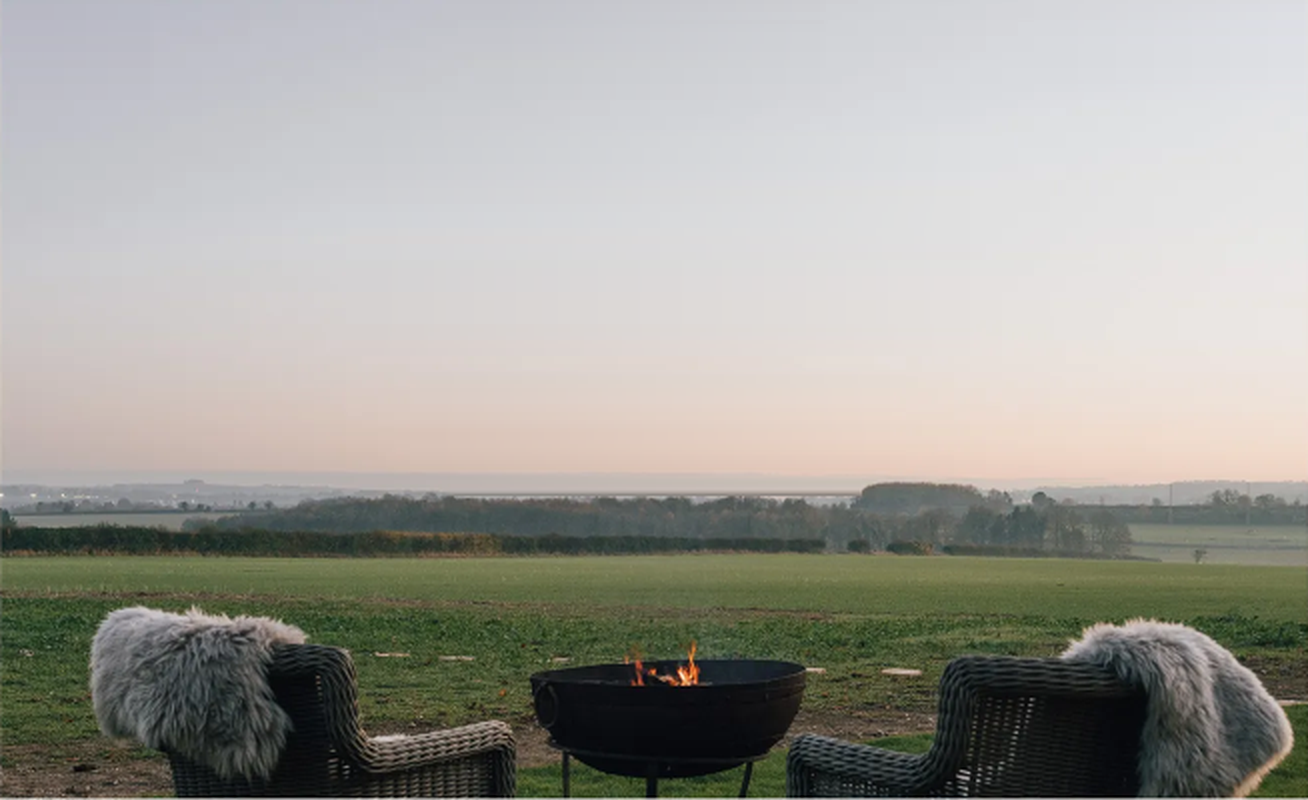
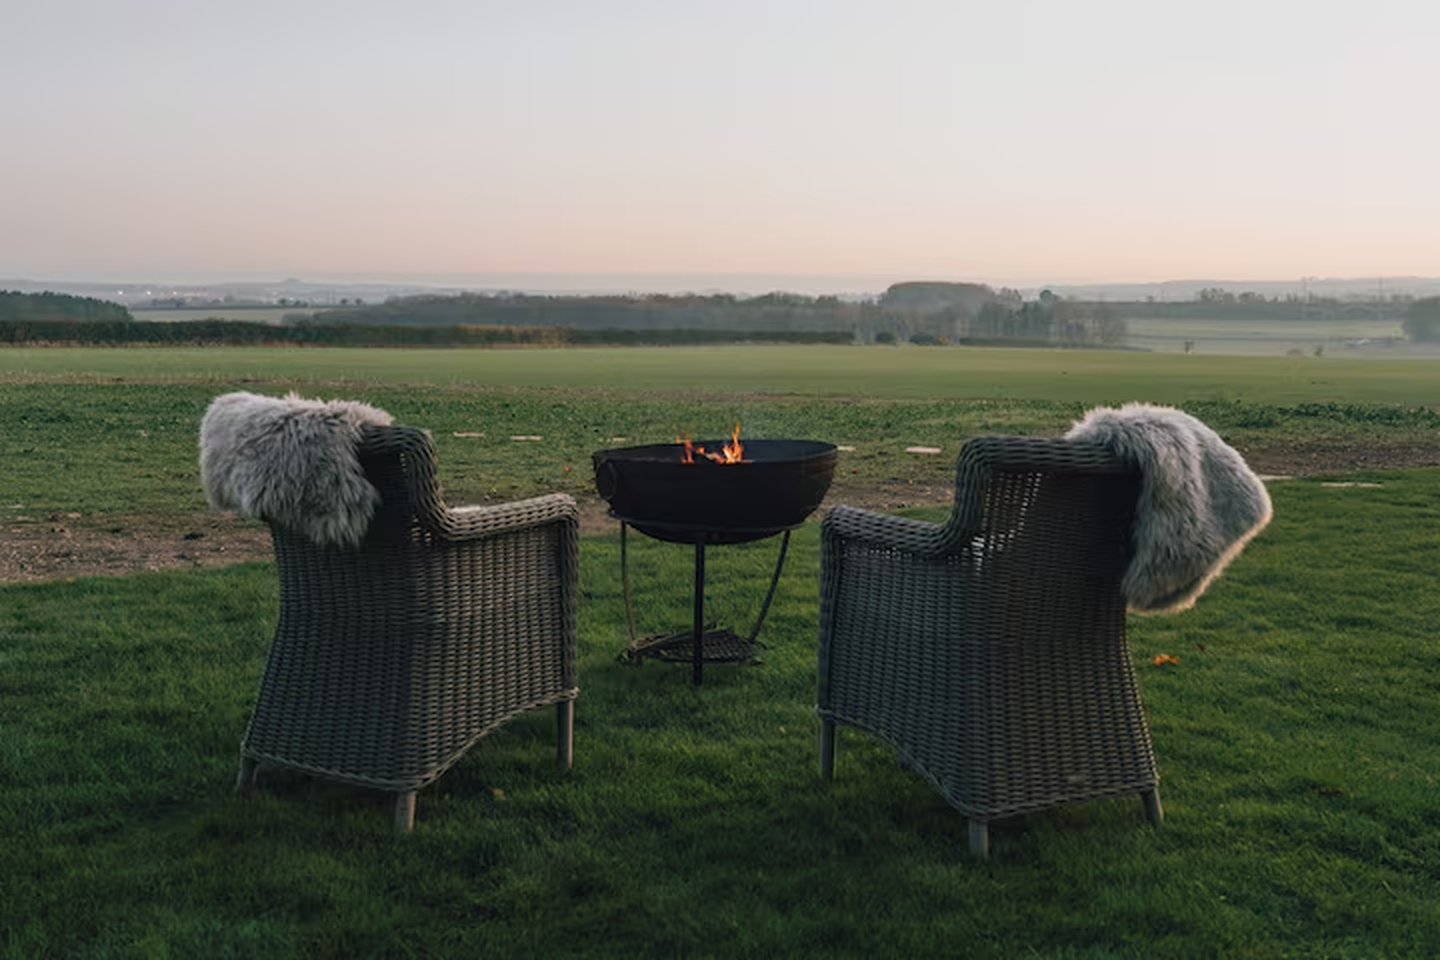
Replace nature hero background with high-quality original photograph

diff --git a/frontend/src/components/LandingPage.jsx b/frontend/src/components/LandingPage.jsx
@@ -115,7 +115,7 @@ export default function LandingPage({
       {/* =====================================================================
           TOP NAVIGATION BAR
           ===================================================================== */}
-      <header className="w-full border-b border-black/5 bg-[#e8e6e3]/60 backdrop-blur-md sticky top-0 z-40">
+      <header className="w-full border-b border-black/5 bg-[#dad9de]/60 backdrop-blur-md sticky top-0 z-40">
         <div className="max-w-6xl mx-auto px-5 sm:px-8 h-20 flex items-center justify-between">
           {/* Left: Menu Button */}
           <button
@@ -210,7 +210,7 @@ export default function LandingPage({
       {/* =====================================================================
           HERO SECTION (Full-Bleed Nature Landscape with Centered Headline & Email Bar)
           ===================================================================== */}
-      <section className="relative w-full overflow-hidden bg-[#cbccd2]">
+      <section className="relative w-full overflow-hidden bg-[#dad9de]">
         {/* Full Nature Landscape Background Image */}
         <img
           src="/nature-hero.png"
